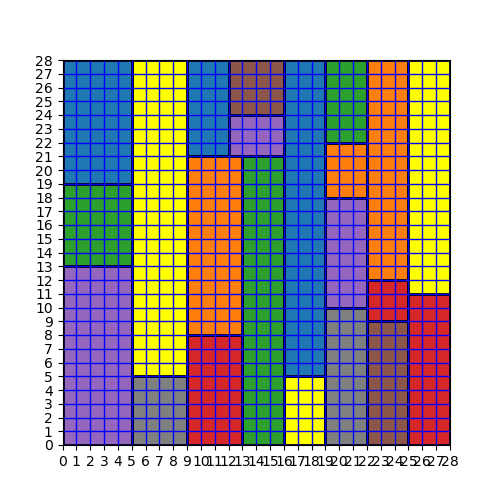
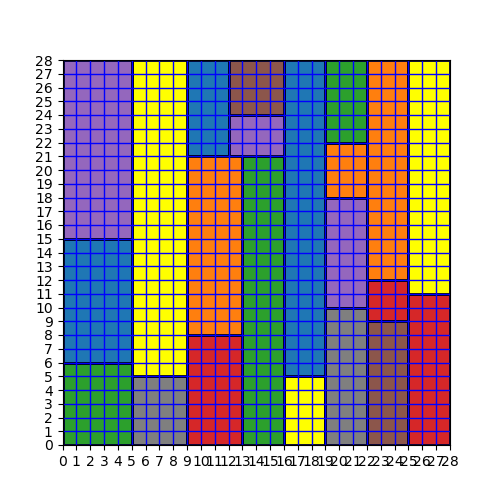
[Update] Added symmetry breaking.

Changed region(s): [[0.12, 0.12, 0.27, 0.9]]

diff --git a/vlsi-design-CP-normal.py b/vlsi-design-CP-normal.py
@@ -69,6 +69,9 @@ code = """
 
     % Constraint to remove overlaps
     constraint diffn(start_x, start_y, BLOCK_WIDTHS, BLOCK_HEIGHTS);
+    
+    % Symmetry breaking
+    constraint lex_lesseq(start_y, reverse(start_y));
 
     % Search strategy
     solve :: seq_search([int_search(start_x, most_constrained, indomain_min), 
